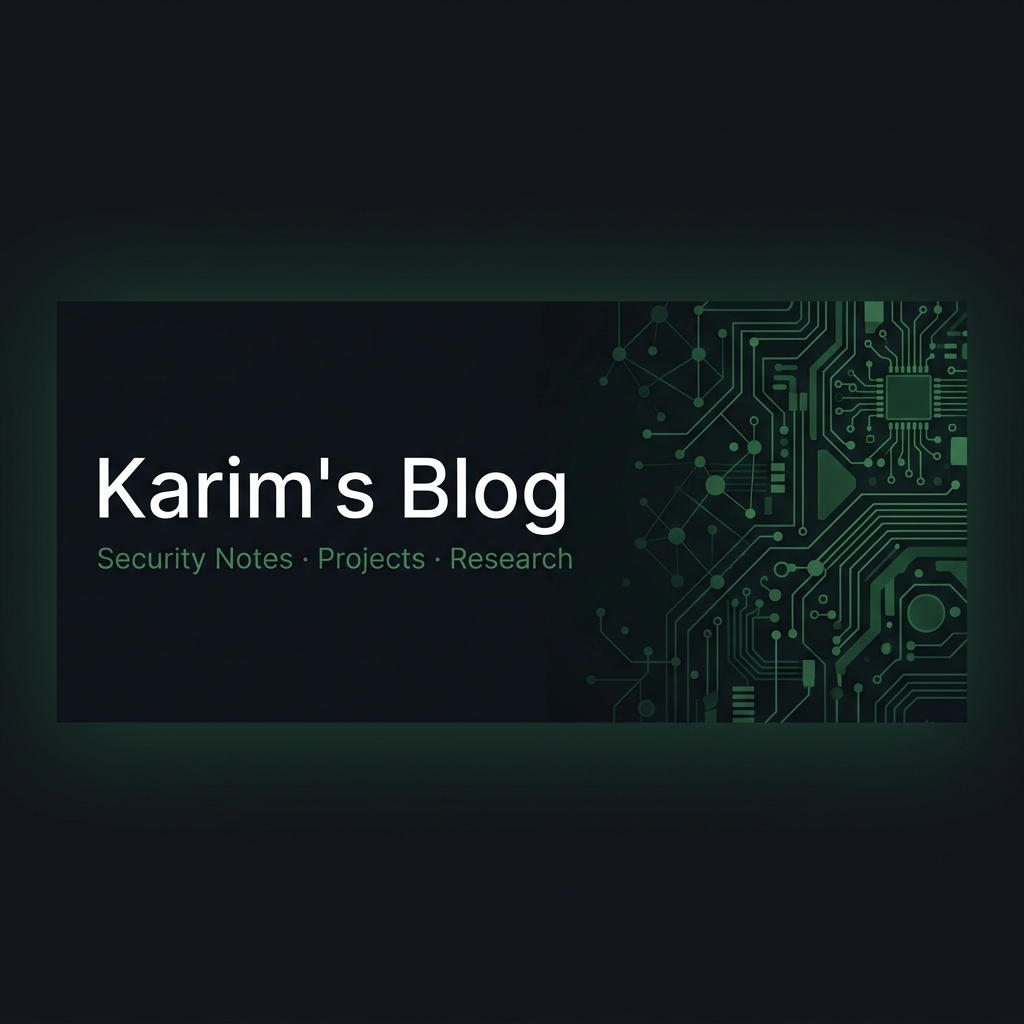
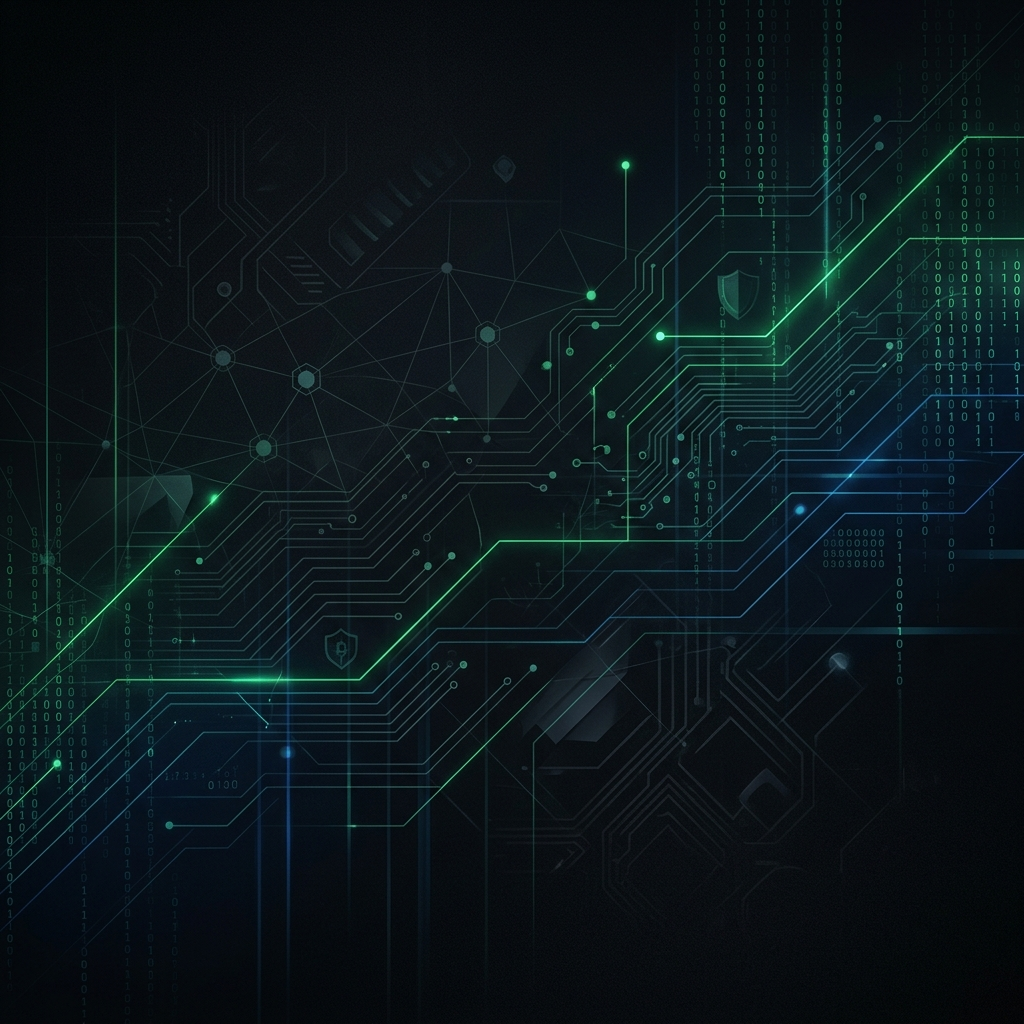
Add MediumZoom for image lightbox and professional OpenGraph SEO image

diff --git a/layouts/partials/extend_footer.html b/layouts/partials/extend_footer.html
@@ -139,3 +139,25 @@
   onScroll();
 })();
 </script>
+
+{{- /* ── 3. Image Lightbox (MediumZoom) ─────────────────── */ -}}
+{{ if .IsPage }}
+<script src="https://cdn.jsdelivr.net/npm/medium-zoom@1.1.0/dist/medium-zoom.min.js"></script>
+<script>
+document.addEventListener('DOMContentLoaded', () => {
+  const images = Array.from(document.querySelectorAll('.post-content img'));
+  if (images.length > 0) {
+    mediumZoom(images, {
+      margin: 24,
+      background: 'rgba(15, 15, 19, 0.95)'
+    });
+  }
+});
+</script>
+<style>
+/* Remove the default cursor from PaperMod images and add zoom-in */
+.post-content img { cursor: zoom-in; border-radius: 6px; }
+.medium-zoom-overlay { z-index: 1000; }
+.medium-zoom-image--opened { z-index: 1001; }
+</style>
+{{ end }}

diff --git a/public/posts/ejpt/day-1/passive-reconnaissance/index.html b/public/posts/ejpt/day-1/passive-reconnaissance/index.html
@@ -1044,6 +1044,25 @@ Most other DNS records only specify a server or an IP address, but SRV records i
   onScroll();
 })();
 </script>
+<script src="https://cdn.jsdelivr.net/npm/medium-zoom@1.1.0/dist/medium-zoom.min.js"></script>
+<script>
+document.addEventListener('DOMContentLoaded', () => {
+  const images = Array.from(document.querySelectorAll('.post-content img'));
+  if (images.length > 0) {
+    mediumZoom(images, {
+      margin: 24,
+      background: 'rgba(15, 15, 19, 0.95)'
+    });
+  }
+});
+</script>
+<style>
+ 
+.post-content img { cursor: zoom-in; border-radius: 6px; }
+.medium-zoom-overlay { z-index: 1000; }
+.medium-zoom-image--opened { z-index: 1001; }
+</style>
+
 
 
 <script>

diff --git a/public/projects/wazuh/wazuh-lab-2-malware-detection/index.html b/public/projects/wazuh/wazuh-lab-2-malware-detection/index.html
@@ -1198,6 +1198,25 @@ In the final step, the attacker collects the data he desires and prepares it for
   onScroll();
 })();
 </script>
+<script src="https://cdn.jsdelivr.net/npm/medium-zoom@1.1.0/dist/medium-zoom.min.js"></script>
+<script>
+document.addEventListener('DOMContentLoaded', () => {
+  const images = Array.from(document.querySelectorAll('.post-content img'));
+  if (images.length > 0) {
+    mediumZoom(images, {
+      margin: 24,
+      background: 'rgba(15, 15, 19, 0.95)'
+    });
+  }
+});
+</script>
+<style>
+ 
+.post-content img { cursor: zoom-in; border-radius: 6px; }
+.medium-zoom-overlay { z-index: 1000; }
+.medium-zoom-image--opened { z-index: 1001; }
+</style>
+
 
 
 <script>

diff --git a/public/projects/wazuh/wazuh-lab-3-setchain/index.html b/public/projects/wazuh/wazuh-lab-3-setchain/index.html
@@ -3139,6 +3139,25 @@ Two reasons: (1) <code>fetch()</code> is not available in n8n&rsquo;s sandboxed 
   onScroll();
 })();
 </script>
+<script src="https://cdn.jsdelivr.net/npm/medium-zoom@1.1.0/dist/medium-zoom.min.js"></script>
+<script>
+document.addEventListener('DOMContentLoaded', () => {
+  const images = Array.from(document.querySelectorAll('.post-content img'));
+  if (images.length > 0) {
+    mediumZoom(images, {
+      margin: 24,
+      background: 'rgba(15, 15, 19, 0.95)'
+    });
+  }
+});
+</script>
+<style>
+ 
+.post-content img { cursor: zoom-in; border-radius: 6px; }
+.medium-zoom-overlay { z-index: 1000; }
+.medium-zoom-image--opened { z-index: 1001; }
+</style>
+
 
 
 <script>

diff --git a/public/about/index.html b/public/about/index.html
@@ -554,6 +554,25 @@ GPA <strong>3.8 / 4.0</strong> · Courses: Network Security · InfoSec Managemen
   onScroll();
 })();
 </script>
+<script src="https://cdn.jsdelivr.net/npm/medium-zoom@1.1.0/dist/medium-zoom.min.js"></script>
+<script>
+document.addEventListener('DOMContentLoaded', () => {
+  const images = Array.from(document.querySelectorAll('.post-content img'));
+  if (images.length > 0) {
+    mediumZoom(images, {
+      margin: 24,
+      background: 'rgba(15, 15, 19, 0.95)'
+    });
+  }
+});
+</script>
+<style>
+ 
+.post-content img { cursor: zoom-in; border-radius: 6px; }
+.medium-zoom-overlay { z-index: 1000; }
+.medium-zoom-image--opened { z-index: 1001; }
+</style>
+
 
 
 <script>

diff --git a/public/posts/ejpt/day-0/introduction-to-information-gathering/index.html b/public/posts/ejpt/day-0/introduction-to-information-gathering/index.html
@@ -684,6 +684,25 @@ Types of Reconnaissance Passive information gathering → collect information th
   onScroll();
 })();
 </script>
+<script src="https://cdn.jsdelivr.net/npm/medium-zoom@1.1.0/dist/medium-zoom.min.js"></script>
+<script>
+document.addEventListener('DOMContentLoaded', () => {
+  const images = Array.from(document.querySelectorAll('.post-content img'));
+  if (images.length > 0) {
+    mediumZoom(images, {
+      margin: 24,
+      background: 'rgba(15, 15, 19, 0.95)'
+    });
+  }
+});
+</script>
+<style>
+ 
+.post-content img { cursor: zoom-in; border-radius: 6px; }
+.medium-zoom-overlay { z-index: 1000; }
+.medium-zoom-image--opened { z-index: 1001; }
+</style>
+
 
 
 <script>

diff --git a/public/posts/ejpt/day-1/active-reconnaissance/index.html b/public/posts/ejpt/day-1/active-reconnaissance/index.html
@@ -872,6 +872,25 @@ We have discussed before in passive reconnaissance about DNS and how it actually
   onScroll();
 })();
 </script>
+<script src="https://cdn.jsdelivr.net/npm/medium-zoom@1.1.0/dist/medium-zoom.min.js"></script>
+<script>
+document.addEventListener('DOMContentLoaded', () => {
+  const images = Array.from(document.querySelectorAll('.post-content img'));
+  if (images.length > 0) {
+    mediumZoom(images, {
+      margin: 24,
+      background: 'rgba(15, 15, 19, 0.95)'
+    });
+  }
+});
+</script>
+<style>
+ 
+.post-content img { cursor: zoom-in; border-radius: 6px; }
+.medium-zoom-overlay { z-index: 1000; }
+.medium-zoom-image--opened { z-index: 1001; }
+</style>
+
 
 
 <script>

diff --git a/public/posts/ejpt/day-2/network-primer/index.html b/public/posts/ejpt/day-2/network-primer/index.html
@@ -643,6 +643,25 @@ UDP(User Datagram Protocol) is the opposite of TCP which is connectionless(does 
   onScroll();
 })();
 </script>
+<script src="https://cdn.jsdelivr.net/npm/medium-zoom@1.1.0/dist/medium-zoom.min.js"></script>
+<script>
+document.addEventListener('DOMContentLoaded', () => {
+  const images = Array.from(document.querySelectorAll('.post-content img'));
+  if (images.length > 0) {
+    mediumZoom(images, {
+      margin: 24,
+      background: 'rgba(15, 15, 19, 0.95)'
+    });
+  }
+});
+</script>
+<style>
+ 
+.post-content img { cursor: zoom-in; border-radius: 6px; }
+.medium-zoom-overlay { z-index: 1000; }
+.medium-zoom-image--opened { z-index: 1001; }
+</style>
+
 
 
 <script>

diff --git a/public/posts/ejpt/day-3/host-discovery/index.html b/public/posts/ejpt/day-3/host-discovery/index.html
@@ -741,6 +741,25 @@ for windows<img alt="ping-windows" loading="lazy" src="/images/ejpt/day-3/host-d
   onScroll();
 })();
 </script>
+<script src="https://cdn.jsdelivr.net/npm/medium-zoom@1.1.0/dist/medium-zoom.min.js"></script>
+<script>
+document.addEventListener('DOMContentLoaded', () => {
+  const images = Array.from(document.querySelectorAll('.post-content img'));
+  if (images.length > 0) {
+    mediumZoom(images, {
+      margin: 24,
+      background: 'rgba(15, 15, 19, 0.95)'
+    });
+  }
+});
+</script>
+<style>
+ 
+.post-content img { cursor: zoom-in; border-radius: 6px; }
+.medium-zoom-overlay { z-index: 1000; }
+.medium-zoom-image--opened { z-index: 1001; }
+</style>
+
 
 
 <script>

diff --git a/public/posts/ejpt/day-4/port-scanning/index.html b/public/posts/ejpt/day-4/port-scanning/index.html
@@ -730,6 +730,25 @@ option (-sC) which is performing default and safe categories of Nmap scripting e
   onScroll();
 })();
 </script>
+<script src="https://cdn.jsdelivr.net/npm/medium-zoom@1.1.0/dist/medium-zoom.min.js"></script>
+<script>
+document.addEventListener('DOMContentLoaded', () => {
+  const images = Array.from(document.querySelectorAll('.post-content img'));
+  if (images.length > 0) {
+    mediumZoom(images, {
+      margin: 24,
+      background: 'rgba(15, 15, 19, 0.95)'
+    });
+  }
+});
+</script>
+<style>
+ 
+.post-content img { cursor: zoom-in; border-radius: 6px; }
+.medium-zoom-overlay { z-index: 1000; }
+.medium-zoom-image--opened { z-index: 1001; }
+</style>
+
 
 
 <script>

diff --git a/public/projects/wazuh/wazuh-lab-1-ids-setup/index.html b/public/projects/wazuh/wazuh-lab-1-ids-setup/index.html
@@ -1287,6 +1287,25 @@ When expanding this alert, we can see:
   onScroll();
 })();
 </script>
+<script src="https://cdn.jsdelivr.net/npm/medium-zoom@1.1.0/dist/medium-zoom.min.js"></script>
+<script>
+document.addEventListener('DOMContentLoaded', () => {
+  const images = Array.from(document.querySelectorAll('.post-content img'));
+  if (images.length > 0) {
+    mediumZoom(images, {
+      margin: 24,
+      background: 'rgba(15, 15, 19, 0.95)'
+    });
+  }
+});
+</script>
+<style>
+ 
+.post-content img { cursor: zoom-in; border-radius: 6px; }
+.medium-zoom-overlay { z-index: 1000; }
+.medium-zoom-image--opened { z-index: 1001; }
+</style>
+
 
 
 <script>

diff --git a/public/archives/index.html b/public/archives/index.html
@@ -310,6 +310,25 @@
   onScroll();
 })();
 </script>
+<script src="https://cdn.jsdelivr.net/npm/medium-zoom@1.1.0/dist/medium-zoom.min.js"></script>
+<script>
+document.addEventListener('DOMContentLoaded', () => {
+  const images = Array.from(document.querySelectorAll('.post-content img'));
+  if (images.length > 0) {
+    mediumZoom(images, {
+      margin: 24,
+      background: 'rgba(15, 15, 19, 0.95)'
+    });
+  }
+});
+</script>
+<style>
+ 
+.post-content img { cursor: zoom-in; border-radius: 6px; }
+.medium-zoom-overlay { z-index: 1000; }
+.medium-zoom-image--opened { z-index: 1001; }
+</style>
+
 
 
 <script>
